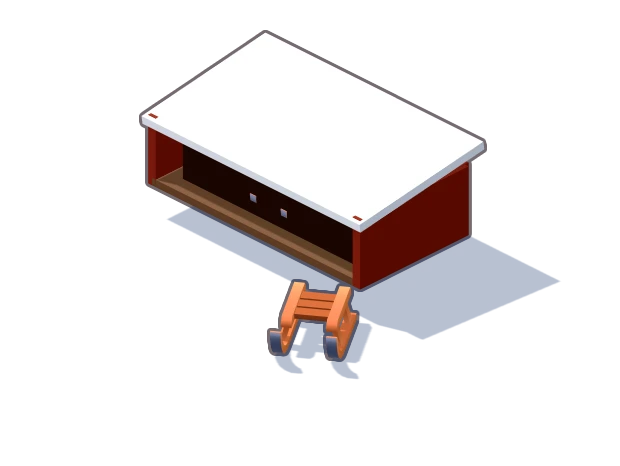
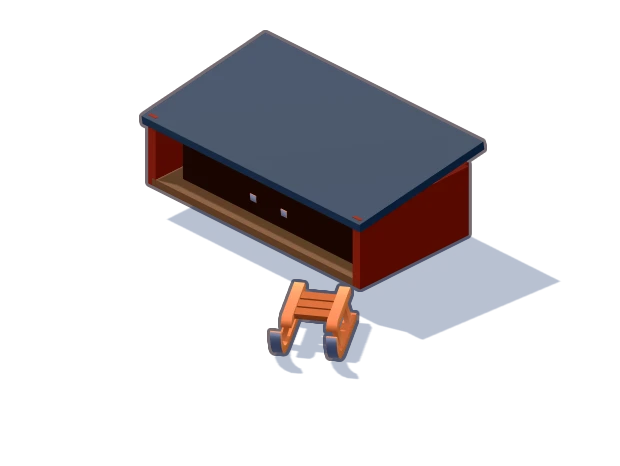
v96 : grille des trolls figée, toit du hangar lisible
La partie ne change plus le nombre de trous si on tourne l'écran.
Le toit du hangar est ardoise, pour ne plus se confondre avec la neige.
La version s'empile sur la v95.

Changed region(s): [[0.2145, 0.0601, 0.7968, 0.5107]]

diff --git a/santa-game/js/minigames.js b/santa-game/js/minigames.js
@@ -218,7 +218,7 @@ export async function openMinigame(kind, ctx){
       good: 0, great: 0,
       tap(px, py){
         let best = null;
-        for (const p of pops){ if (p.dead) continue; const m = mounds[p.m], sz = m.s * (p.boss ? 1.35 : .95) * p.rise; if (Math.abs(px - m.x) < sz * .5 && py < m.y + 6 && py > m.y - sz * 1.15) best = p; }
+        for (const p of pops){ if (p.dead) continue; const m = mounds[p.m]; if (!m) continue; const sz = m.s * (p.boss ? 1.35 : .95) * p.rise; if (Math.abs(px - m.x) < sz * .5 && py < m.y + 6 && py > m.y - sz * 1.15) best = p; }
         balls.push({x0: W / 2, y0: H + 20, x1: px, y1: py, t: 0});
         if (!best){ ctx.sfx.tap(); return; }
         best.hp--; best.hurt = .25; splats.push({x: px, y: py, t: 0});
@@ -226,7 +226,7 @@ export async function openMinigame(kind, ctx){
         else ctx.sfx.tap();
       },
       update(dt, rdt){
-        g.relayout();   // ne redessine les trous que si l'écran a vraiment changé de taille
+        g.relayout();   // replace les trous, sans changer leur nombre (figé au début)
         spawn -= dt;
         if (dt > 0 && spawn <= 0){
           spawn = C.every * (.8 + Math.random() * .4);
@@ -238,7 +238,7 @@ export async function openMinigame(kind, ctx){
           p.t += dt; p.hurt = Math.max(0, p.hurt - rdt);
           if (p.dead){ p.deadT += rdt; p.rise = Math.max(0, p.rise - rdt * 4); continue; }
           p.rise = Math.min(1, p.t / .25);
-          if (dt > 0 && p.t > p.atk){ p.t = .25; const m = mounds[p.m]; shots.push({x0: m.x, y0: m.y - m.s * .6, t: 0}); }
+          if (dt > 0 && p.t > p.atk){ p.t = .25; const m = mounds[p.m]; if (m) shots.push({x0: m.x, y0: m.y - m.s * .6, t: 0}); }
         }
         for (let i = pops.length - 1; i >= 0; i--) if (pops[i].dead && pops[i].deadT > .4) pops.splice(i, 1);
         for (const sh of shots){ sh.t += rdt * 1.6; if (sh.t >= 1 && !sh.hit){ sh.hit = true; hearts--; shake = .4; ctx.sfx.err(); if (hearts <= 0 && state === 'play') finish(false); } }
@@ -391,19 +391,20 @@ export async function openMinigame(kind, ctx){
   function snowGame(){
     const mounds = [], pops = [], balls = [], splats = [];
     let spawn = .6, shake = 0;
-    // Téléphone étroit : 2 colonnes, trous plus gros, doigt plus sûr. Le chef sort au milieu de la grille.
+    // Nombre de trous choisi une fois : tourner l'écran ne passe pas de 9 à 8 en pleine partie.
+    const holes = W < 430 ? 8 : 9;
     const layout = () => {
-      mounds.length = 0;
-      const narrow = W < 430, cols = narrow ? 2 : 3, rows = narrow ? 4 : 3;
-      const top = H * .28, bottom = H * .84;
+      const narrow = holes <= 8, cols = narrow ? 2 : 3, rows = narrow ? 4 : 3;
+      const top = H * .28, bottom = H * .84, next = [];
       for (let r = 0; r < rows; r++) for (let c = 0; c < cols; c++){
         const y = top + (bottom - top) * (r + .5) / rows, s = Math.min(W / (cols + .6), (bottom - top) / (rows + .4)) * (.9 + r * .06);
-        mounds.push({x: W * (c + .5) / cols, y, s});
+        next.push({x: W * (c + .5) / cols, y, s});
       }
+      if (!mounds.length) mounds.push(...next);
+      else for (let i = 0; i < mounds.length; i++) if (next[i]) Object.assign(mounds[i], next[i]);
     };
     layout();
-    let laid = W + H * .001;
-    const relayout = () => { if (Math.abs(laid - (W + H * .001)) < 1) return; laid = W + H * .001; layout(); };
+    const relayout = () => layout();
     const mound = m => { x.lineWidth = 3; x.strokeStyle = INK;
       const g = x.createLinearGradient(0, m.y - m.s * .2, 0, m.y + m.s * .2); g.addColorStop(0, '#ffffff'); g.addColorStop(1, '#c6d6f0');
       x.fillStyle = g; x.beginPath(); x.moveTo(m.x - m.s * .56, m.y + m.s * .08); x.bezierCurveTo(m.x - m.s * .5, m.y - m.s * .2, m.x - m.s * .2, m.y - m.s * .26, m.x, m.y - m.s * .2); x.bezierCurveTo(m.x + m.s * .2, m.y - m.s * .28, m.x + m.s * .5, m.y - m.s * .18, m.x + m.s * .56, m.y + m.s * .08); x.quadraticCurveTo(m.x, m.y + m.s * .2, m.x - m.s * .56, m.y + m.s * .08); x.fill(); x.stroke();
@@ -420,7 +421,7 @@ export async function openMinigame(kind, ctx){
       good: 25, great: 45,
       tap(px, py){
         let best = null;
-        for (const p of pops){ if (p.hit) continue; const m = mounds[p.m], h = p.rise * m.s * .9; if (Math.abs(px - m.x) < m.s * .45 && py < m.y + 4 && py > m.y - h - m.s * .1) best = p; }
+        for (const p of pops){ if (p.hit) continue; const m = mounds[p.m]; if (!m) continue; const h = p.rise * m.s * .9; if (Math.abs(px - m.x) < m.s * .45 && py < m.y + 4 && py > m.y - h - m.s * .1) best = p; }
         balls.push({x0: W / 2, y0: H + 20, x1: px, y1: py, t: 0});
         if (!best){ ctx.sfx.tap(); return; }
         best.hit = true; best.hitT = 0;

diff --git a/santa-game/js/v2/main.js b/santa-game/js/v2/main.js
@@ -1926,7 +1926,7 @@ let pendingReload = null; function reloadWhenCalm(fn){ pendingReload = fn; if (c
 setInterval(() => { if (pendingReload && calm()){ const f = pendingReload; pendingReload = null; f(); } }, 800);
 try { const c = JSON.parse(sessionStorage.getItem('vdp-cam') || 'null'); if (c){ sessionStorage.removeItem('vdp-cam'); Object.assign(cam, c); } } catch(e){}
 /* ---------- mise à jour automatique : l'app de l'écran d'accueil garde parfois l'ancienne version ---------- */
-const GAME_V = 95;
+const GAME_V = 96;
 async function checkUpdate(){
   try { const r = await fetch(VER.href + '?t=' + Date.now(), {cache: 'no-store'}); const j = await r.json();
     if (j.v > GAME_V){ const k = 'vdp-upd-' + j.v; if (sessionStorage.getItem(k)) return; sessionStorage.setItem(k, 1); save();

diff --git a/santa-game/js/buildings.js b/santa-game/js/buildings.js
@@ -147,7 +147,7 @@ function postShape(g, T){
 /** Hangar à traîneau : long, bas, sans mur sur le côté visible (+z). */
 function hangarShape(g, T){
   const len = 2.35 + T * .38, h = .7 + T * .05, d = 1.45;
-  const wall = '#7c3028', roof = '#f4f7fc', hole = '#241612';
+  const wall = '#7c3028', roof = '#3a4658', hole = '#241612';
   solid(g, new THREE.BoxGeometry(len, .08, d), '#6a5140', 0, .04, 0);
   solid(g, new THREE.BoxGeometry(len, h, .1), wall, 0, h / 2, -d / 2);
   solid(g, new THREE.BoxGeometry(.1, h, d), wall, -len / 2, h / 2, 0);

diff --git a/santa-game/sw.js b/santa-game/sw.js
@@ -1,7 +1,7 @@
 // Service worker : le jeu s'installe comme une app et se relance instantanément (même hors ligne).
 // La page est toujours rechargée depuis le réseau si possible (pour recevoir les mises à jour),
 // les modèles 3D, scripts et polices viennent du cache.
-const CACHE = 'vdp-v95';
+const CACHE = 'vdp-v96';
 self.addEventListener('install', e => self.skipWaiting());
 self.addEventListener('activate', e => e.waitUntil((async () => {
   for (const k of await caches.keys()) if (k !== CACHE) await caches.delete(k);

diff --git a/santa-game/index.html b/santa-game/index.html
@@ -1650,4 +1650,4 @@ window.addEventListener('unhandledrejection', e => { const l = document.getEleme
   "three/addons/":"https://cdn.jsdelivr.net/npm/three@0.170.0/examples/jsm/"
 }}
 </script>
-<script type="module" src="js/v2/main.js?v=95"></script>
+<script type="module" src="js/v2/main.js?v=96"></script>
